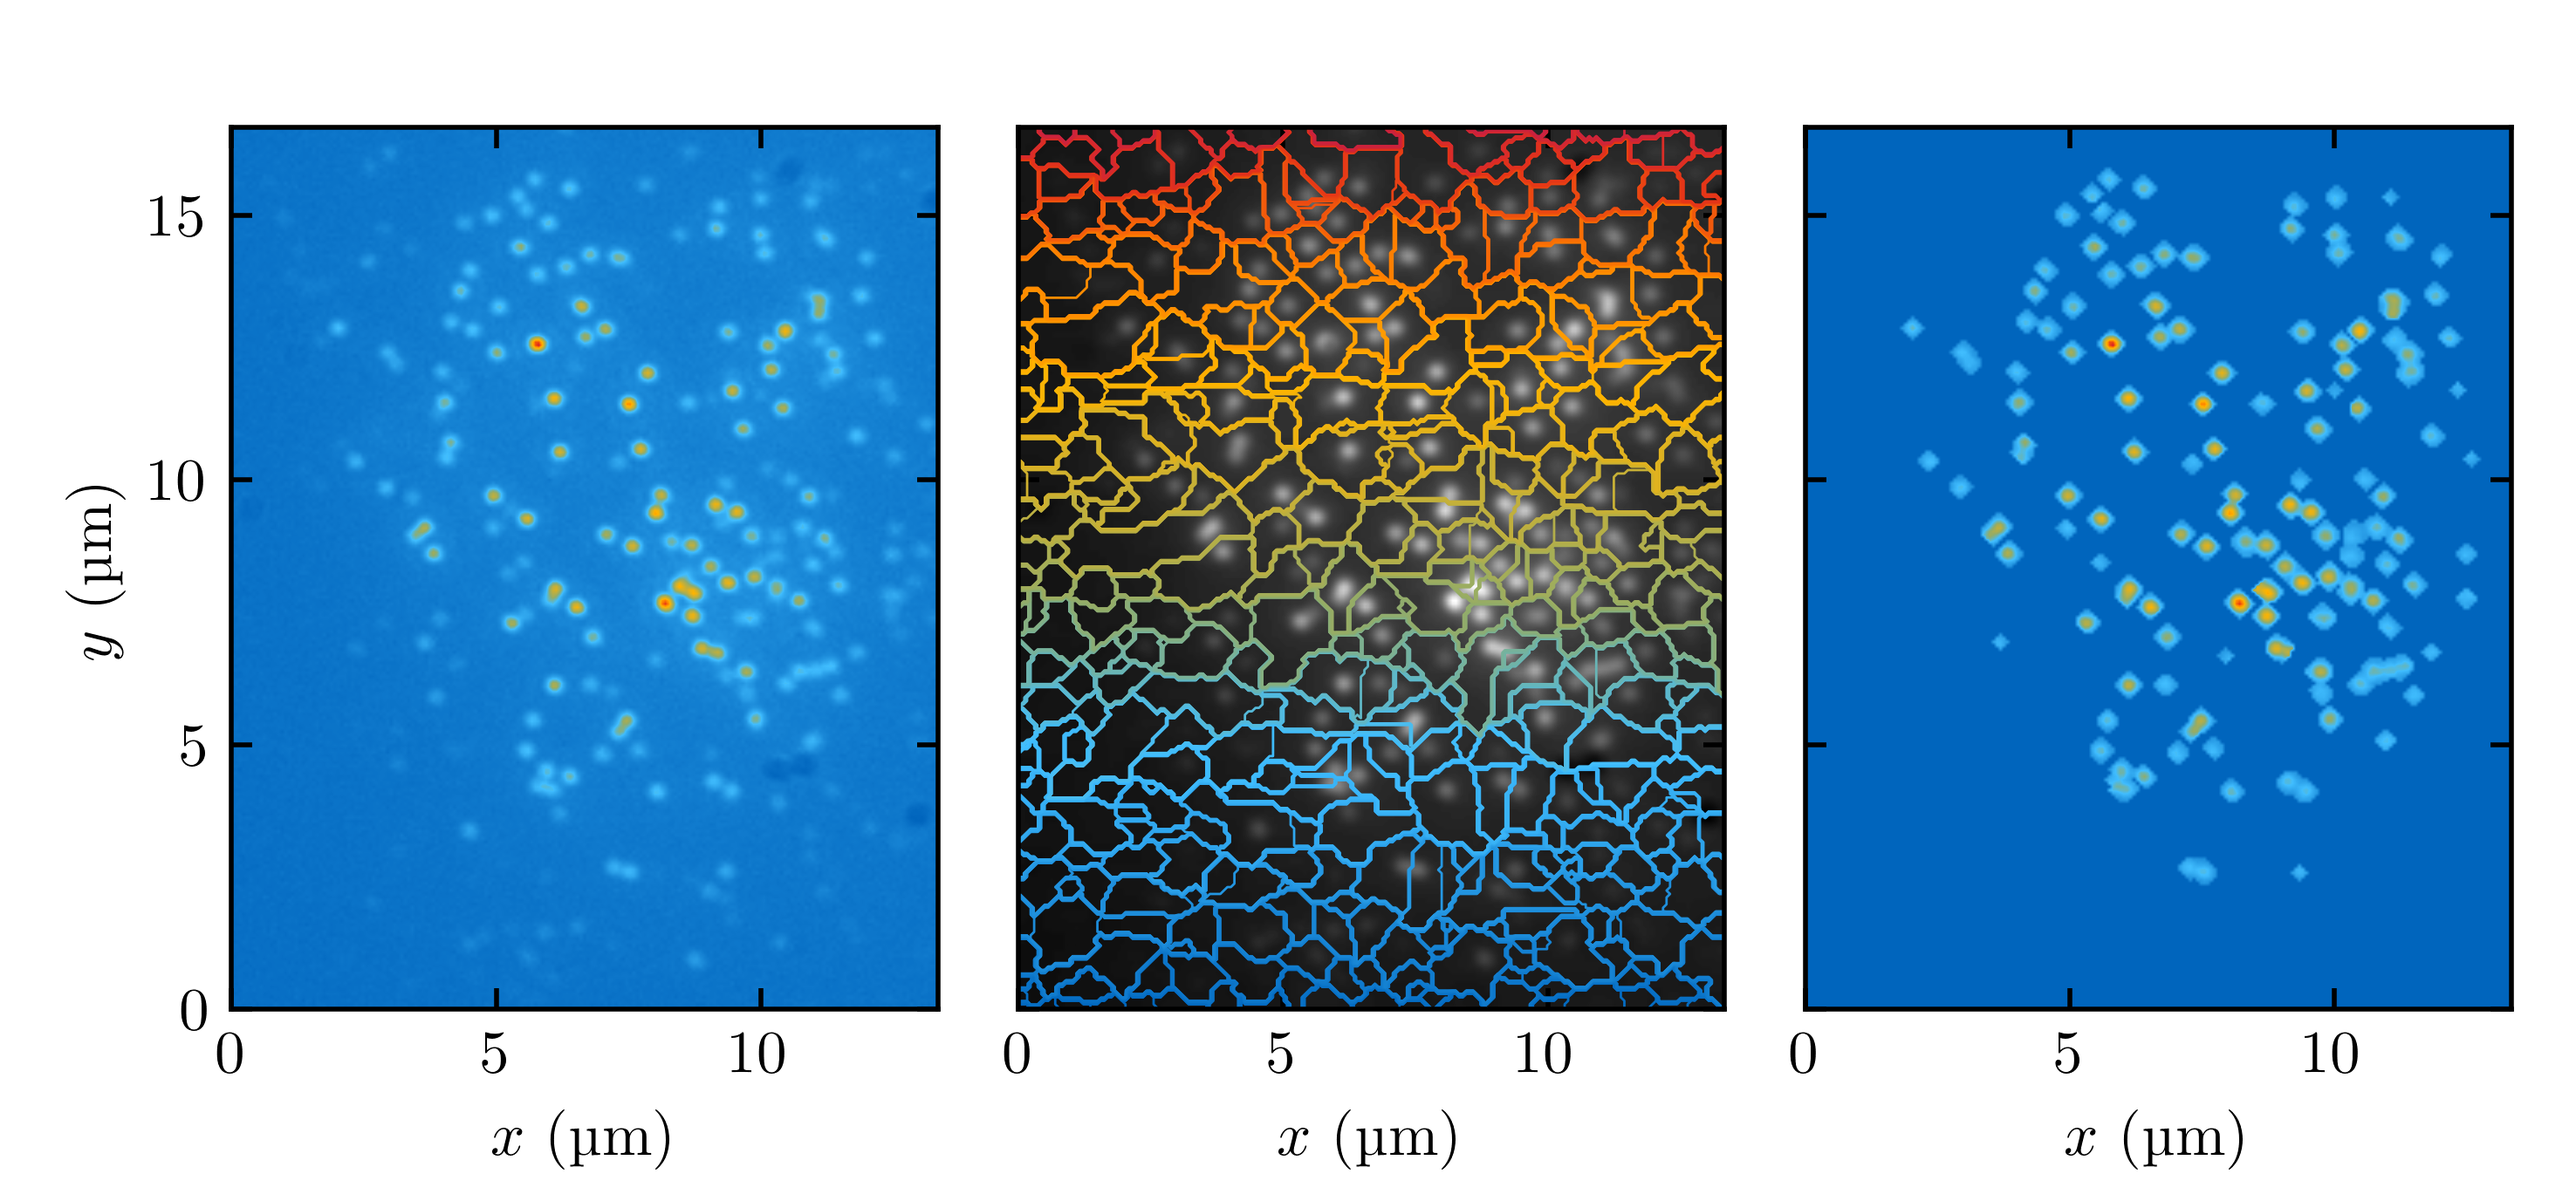
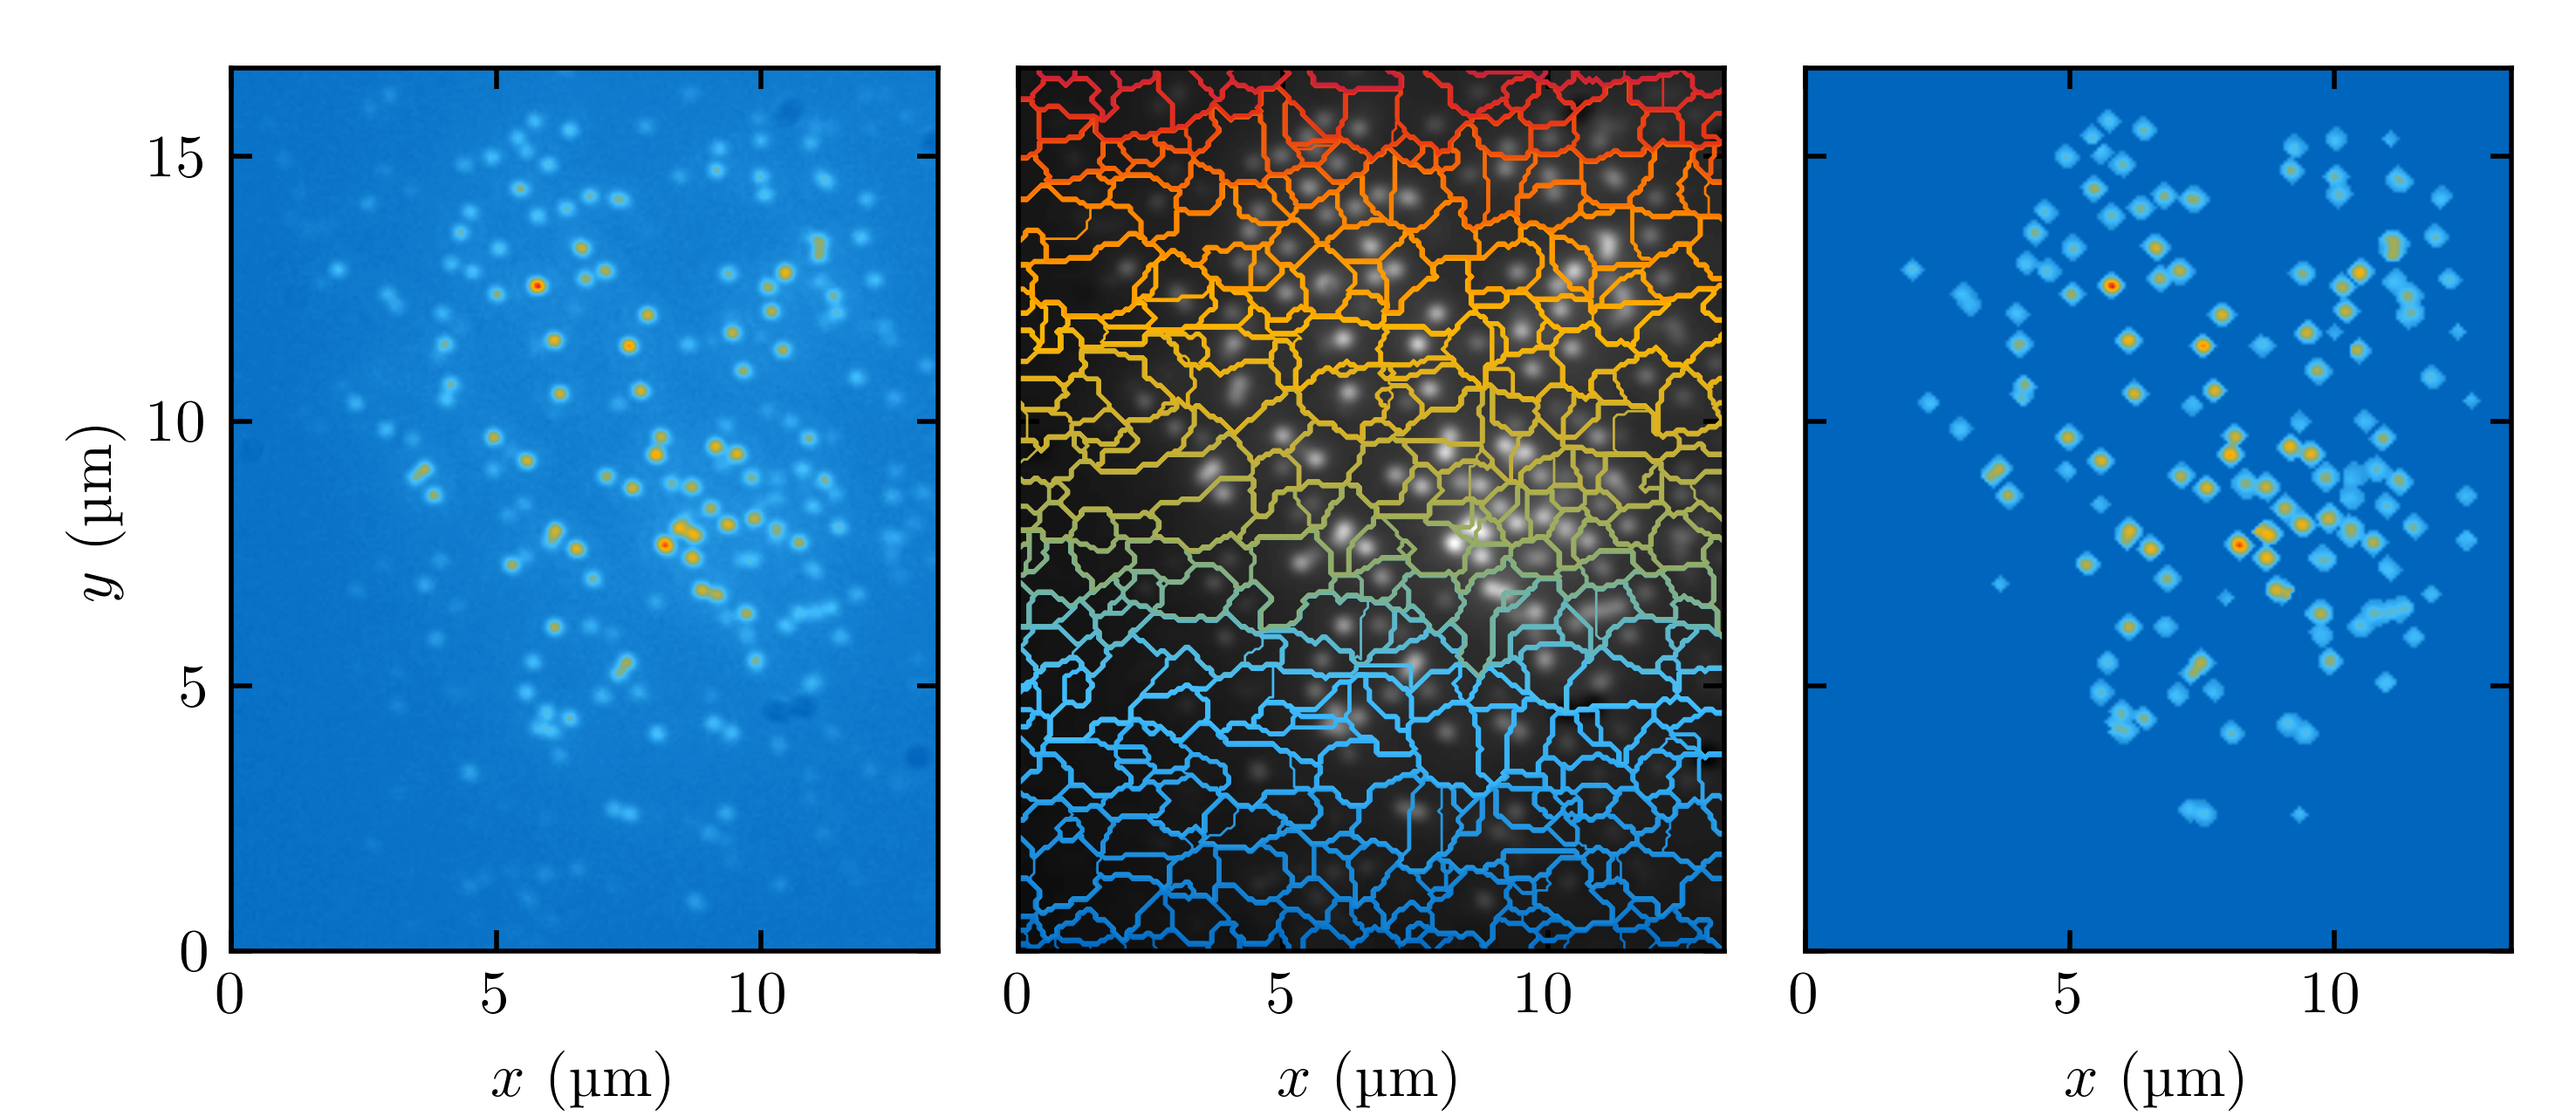
chapter 5 change size to 6.5

diff --git a/images/chapter_5/watershed_collage.py b/images/chapter_5/watershed_collage.py
@@ -26,6 +26,11 @@ class WatershedPlotter:
         plt.tight_layout()
         plt.savefig('watershed_collage.png', dpi=500)
 
+    def __create_and_scale_figure_and_axes(self):
+        self.fig, self.axes = plt.subplots(nrows=1, ncols=3)
+        self.fig.set_figheight(cm_to_inch(6.5))
+        self.fig.set_figwidth(cm_to_inch(15))
+
     def __set_labels(self):
         self.axes[0].set_ylabel(r'$y$ ($\si{\micro \meter}$)')
         for axis in self.axes:
@@ -53,11 +58,6 @@ class WatershedPlotter:
     def __imshow_single_axis(self, axis, data, color_map=tum_jet):
         self.axes[axis].imshow(data, cmap=color_map, origin='lower', aspect=1,
                                interpolation='bilinear', extent=self.__convert_extent_from_pixels_to_um())
-
-    def __create_and_scale_figure_and_axes(self):
-        self.fig, self.axes = plt.subplots(nrows=1, ncols=3)
-        self.fig.set_figheight(cm_to_inch(7))
-        self.fig.set_figwidth(cm_to_inch(15))
 
     def __convert_extent_from_pixels_to_um(self):
         return [0, self.__convert_pixels_to_um(200), 0, self.__convert_pixels_to_um(250)]
